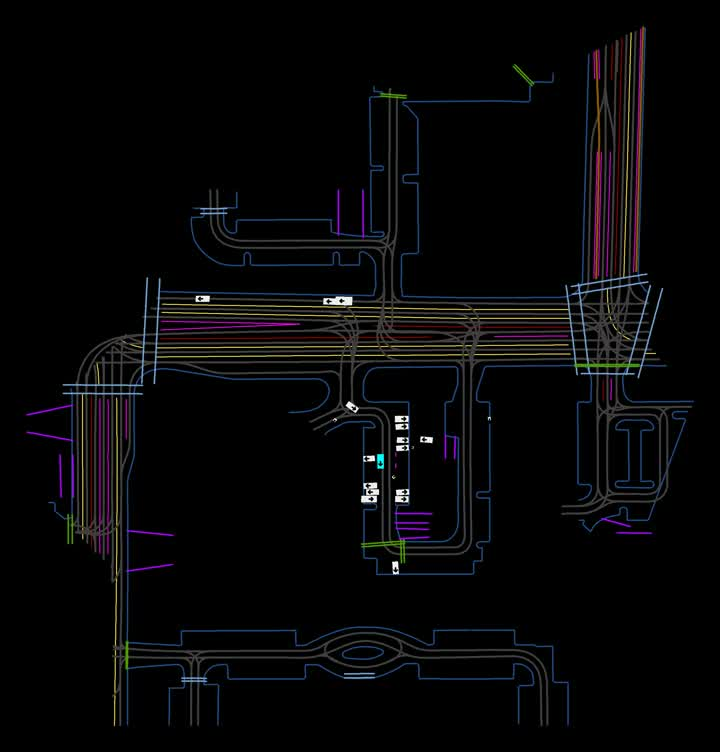
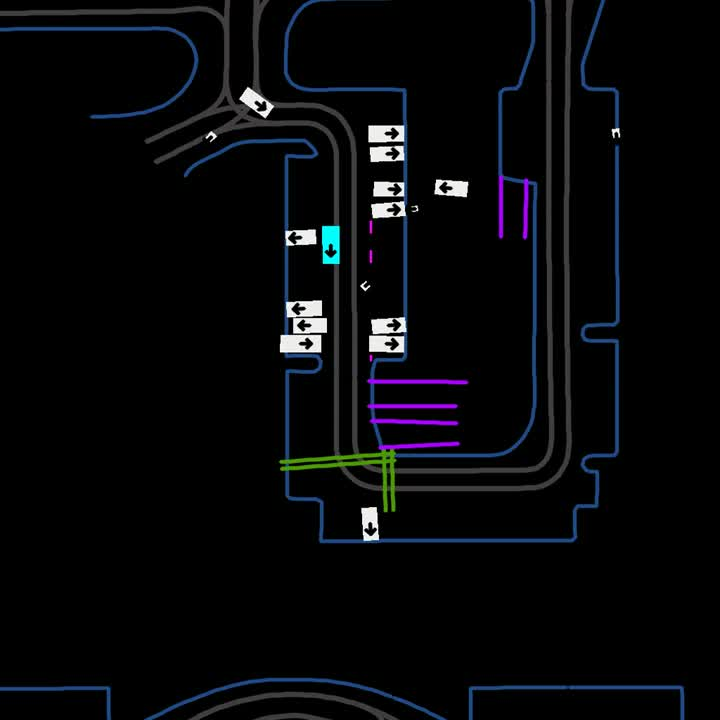
Crop front-parking clip to the parking-lot ROI
Zoom the front_parking_success clip to a 1024x1024 square around the
parking area (crop x=948, y=1372 of the 2684x2804 original), so the
parking maneuver fills the frame and the unrelated collision near the
arterial road is out of view. Regenerate its poster and animated-WebP
twin from the cropped source; bump cache versions (mp4 v3, poster v2,
anim v4 via main.js v9).

Changed region(s): [[0.0, 0.0, 0.9778, 1.0], [0.3972, 0.0, 0.4583, 0.0611], [0.0306, 0.55, 0.0611, 0.5806]]

diff --git a/index.html b/index.html
@@ -187,8 +187,8 @@
   <div class="grid">
     <figure class="cell">
       <div class="frame">
-        <video data-src="static/videos/front_parking_success.mp4?v=2"
-               data-poster="static/posters/front_parking_success.jpg"
+        <video data-src="static/videos/front_parking_success.mp4?v=3"
+               data-poster="static/posters/front_parking_success.jpg?v=2"
                muted loop playsinline preload="none"></video>
       </div>
       <figcaption><strong>Front-in parking</strong> &mdash; tight, high-curvature, kinematically feasible.</figcaption>
@@ -385,6 +385,6 @@
   </p>
 </footer>
 
-<script src="static/js/main.js?v=8"></script>
+<script src="static/js/main.js?v=9"></script>
 </body>
 </html>

diff --git a/static/js/main.js b/static/js/main.js
@@ -30,7 +30,7 @@ const dbg = (() => {
 function animUrlFor(v) {
   const src = v.getAttribute("src") || v.dataset.src || "";
   const name = src.split("/").pop().split("?")[0].replace(/\.mp4$/, "");
-  return "static/anim/" + name + ".webp?v=3";
+  return "static/anim/" + name + ".webp?v=4";
 }
 
 // Every clip is 91 frames x 50ms.